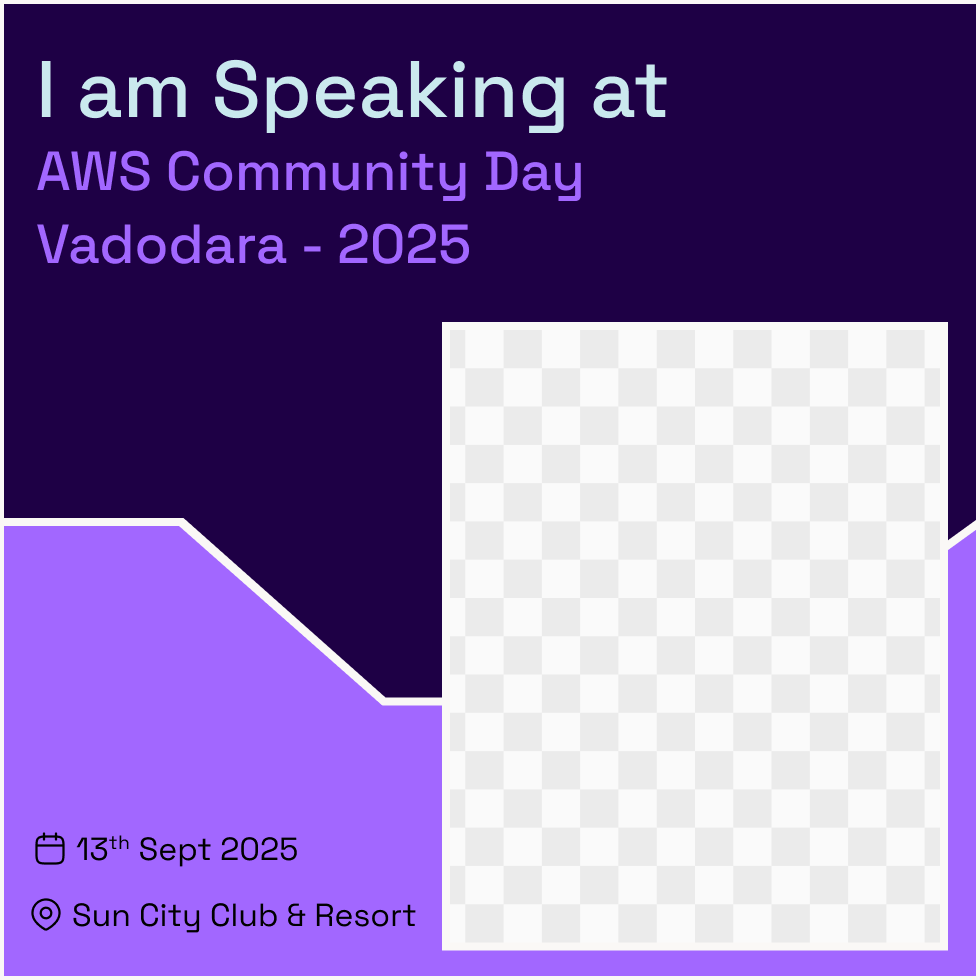
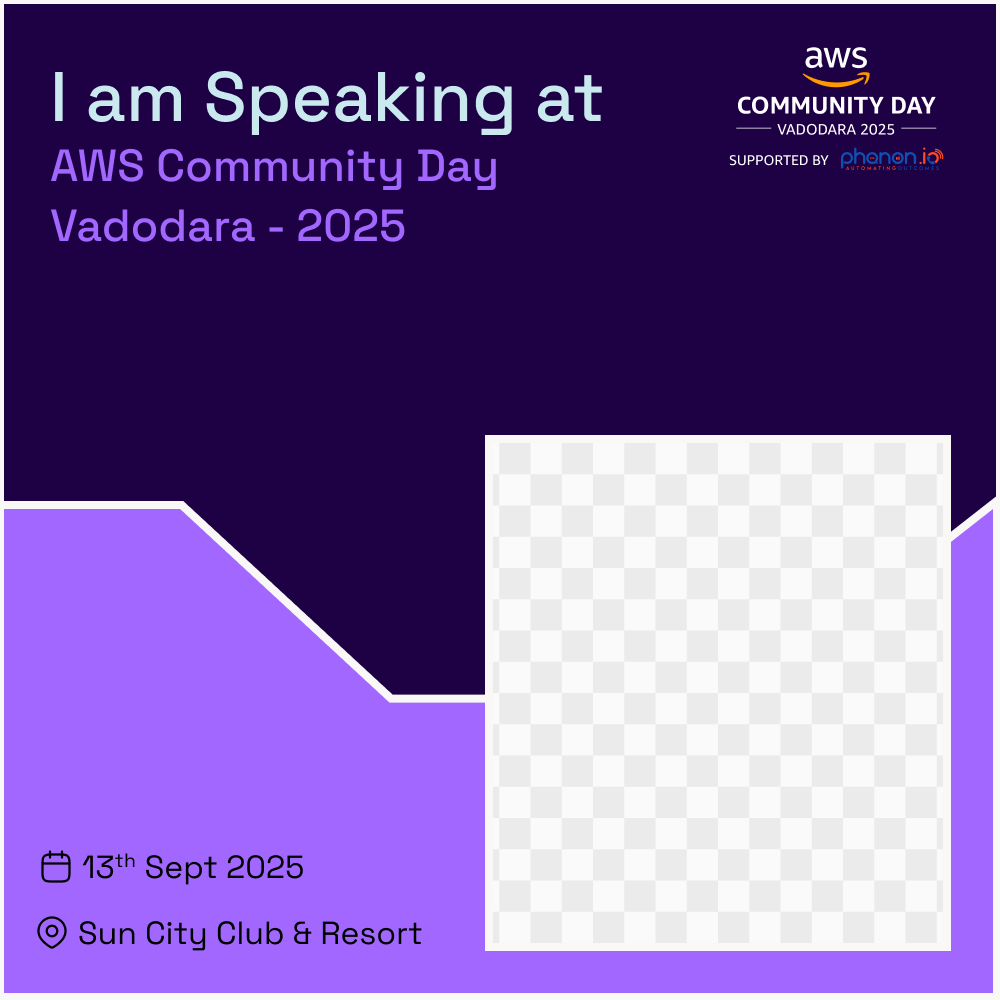
feat: reduce photo frame window size by 10px on right and bottom
#VERCEL_SKIP

diff --git a/app/page.tsx b/app/page.tsx
@@ -29,15 +29,15 @@ type Template = {
 
 // You provided the exact frame metrics on the graphic:
 // - Graphic baseline: 980 × 980
-// - Photo frame: 490 × 612.5
-// - Offsets: 450 (left), 330 (top), 40 (right), 37.5 (bottom)
-// These are self-consistent: 450 + 490 + 40 = 980 and 330 + 612.5 + 37.5 = 980
+// - Photo frame: 450 × 500
+// - Offsets: 493 (left), 443 (top)
+// These are self-consistent: 493 + 450 = 943 and 443 + 500 = 943
 const BASE = 980
 const EXACT_FRAME = {
-  x: 450,
-  y: 330,
-  w: 490,
-  h: 612.5,
+  x: 480, // Moved 5px left from 485 for better centering
+  y: 430, // Moved 5px up from 435 for better vertical alignment
+  w: 447, // Reduced by 10px from 460 to make frame smaller from right
+  h: 497, // Reduced by 10px from 510 to make frame smaller from bottom
 }
 
 const TEMPLATES: Template[] = [
